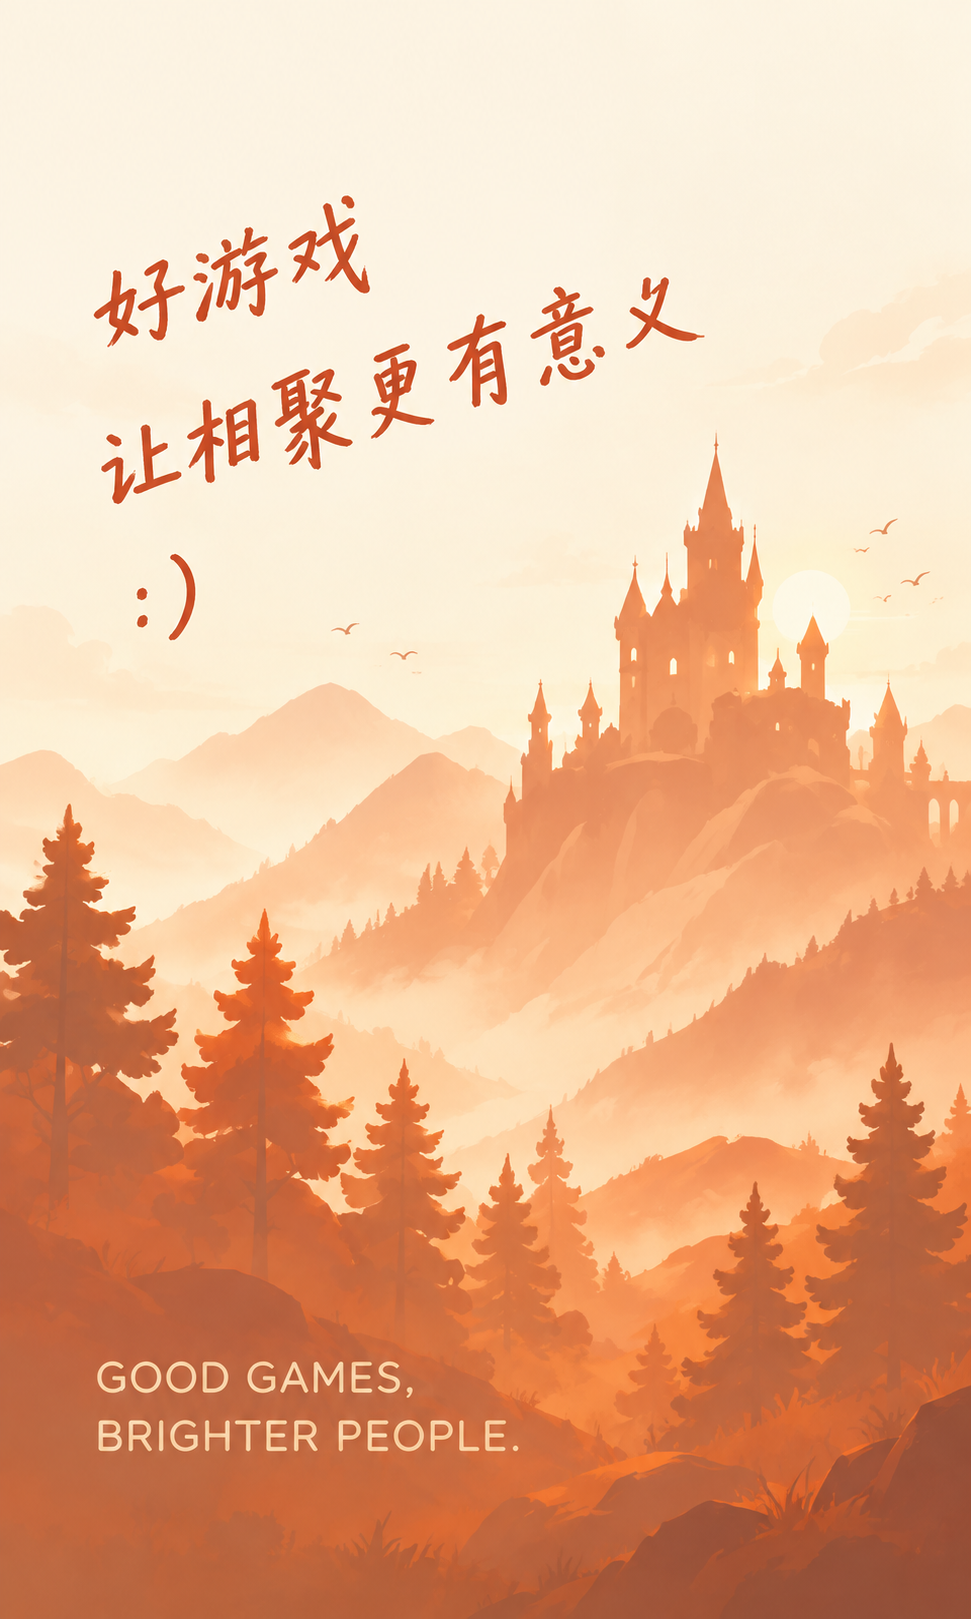
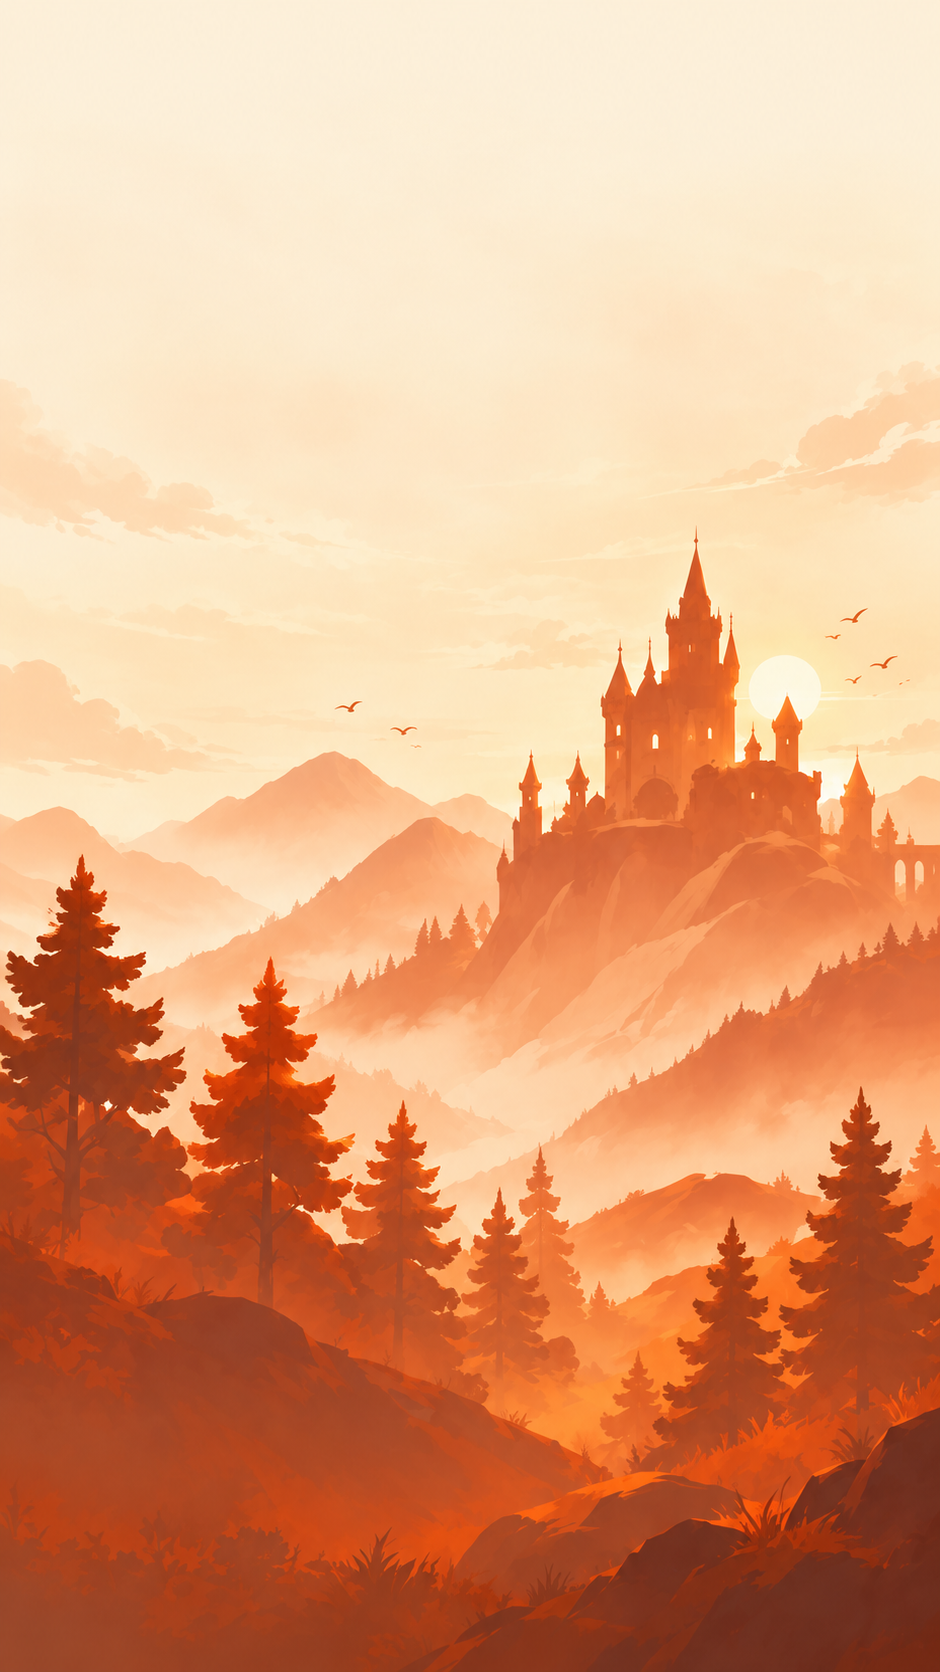
fix(ui): 替换桌面侧栏无字海报并适配原图比例

diff --git a/lib/ui/desktop/sidebar.dart b/lib/ui/desktop/sidebar.dart
@@ -54,13 +54,13 @@ class DesktopSidebar extends StatelessWidget {
               right: 0,
               bottom: 0,
               child: AspectRatio(
-                aspectRatio: 971 / 1619,
+                aspectRatio: 940 / 1672,
                 child: ShaderMask(
                   blendMode: BlendMode.dstIn,
                   shaderCallback: (bounds) => const LinearGradient(
                     begin: Alignment.topCenter,
                     end: Alignment.bottomCenter,
-                    // Blend only the blank paper margin, before any lettering.
+                    // Blend the blank paper margin into the sidebar background.
                     colors: [Colors.transparent, Colors.black, Colors.black],
                     stops: [0, .08, 1],
                   ).createShader(bounds),

diff --git a/test/desktop/desktop_home_test_cases.dart b/test/desktop/desktop_home_test_cases.dart
@@ -850,7 +850,7 @@ void _registerDesktopHomeTests(_DesktopWorkspaceTestContext context) {
     expect(settingsItemRect.bottom, lessThanOrEqualTo(sidebarArtRect.top));
     expect(
       sidebarArtRect.width / sidebarArtRect.height,
-      closeTo(971 / 1619, 0.005),
+      closeTo(940 / 1672, 0.005),
     );
     for (final asset in [
       'sidebar_home.png',
